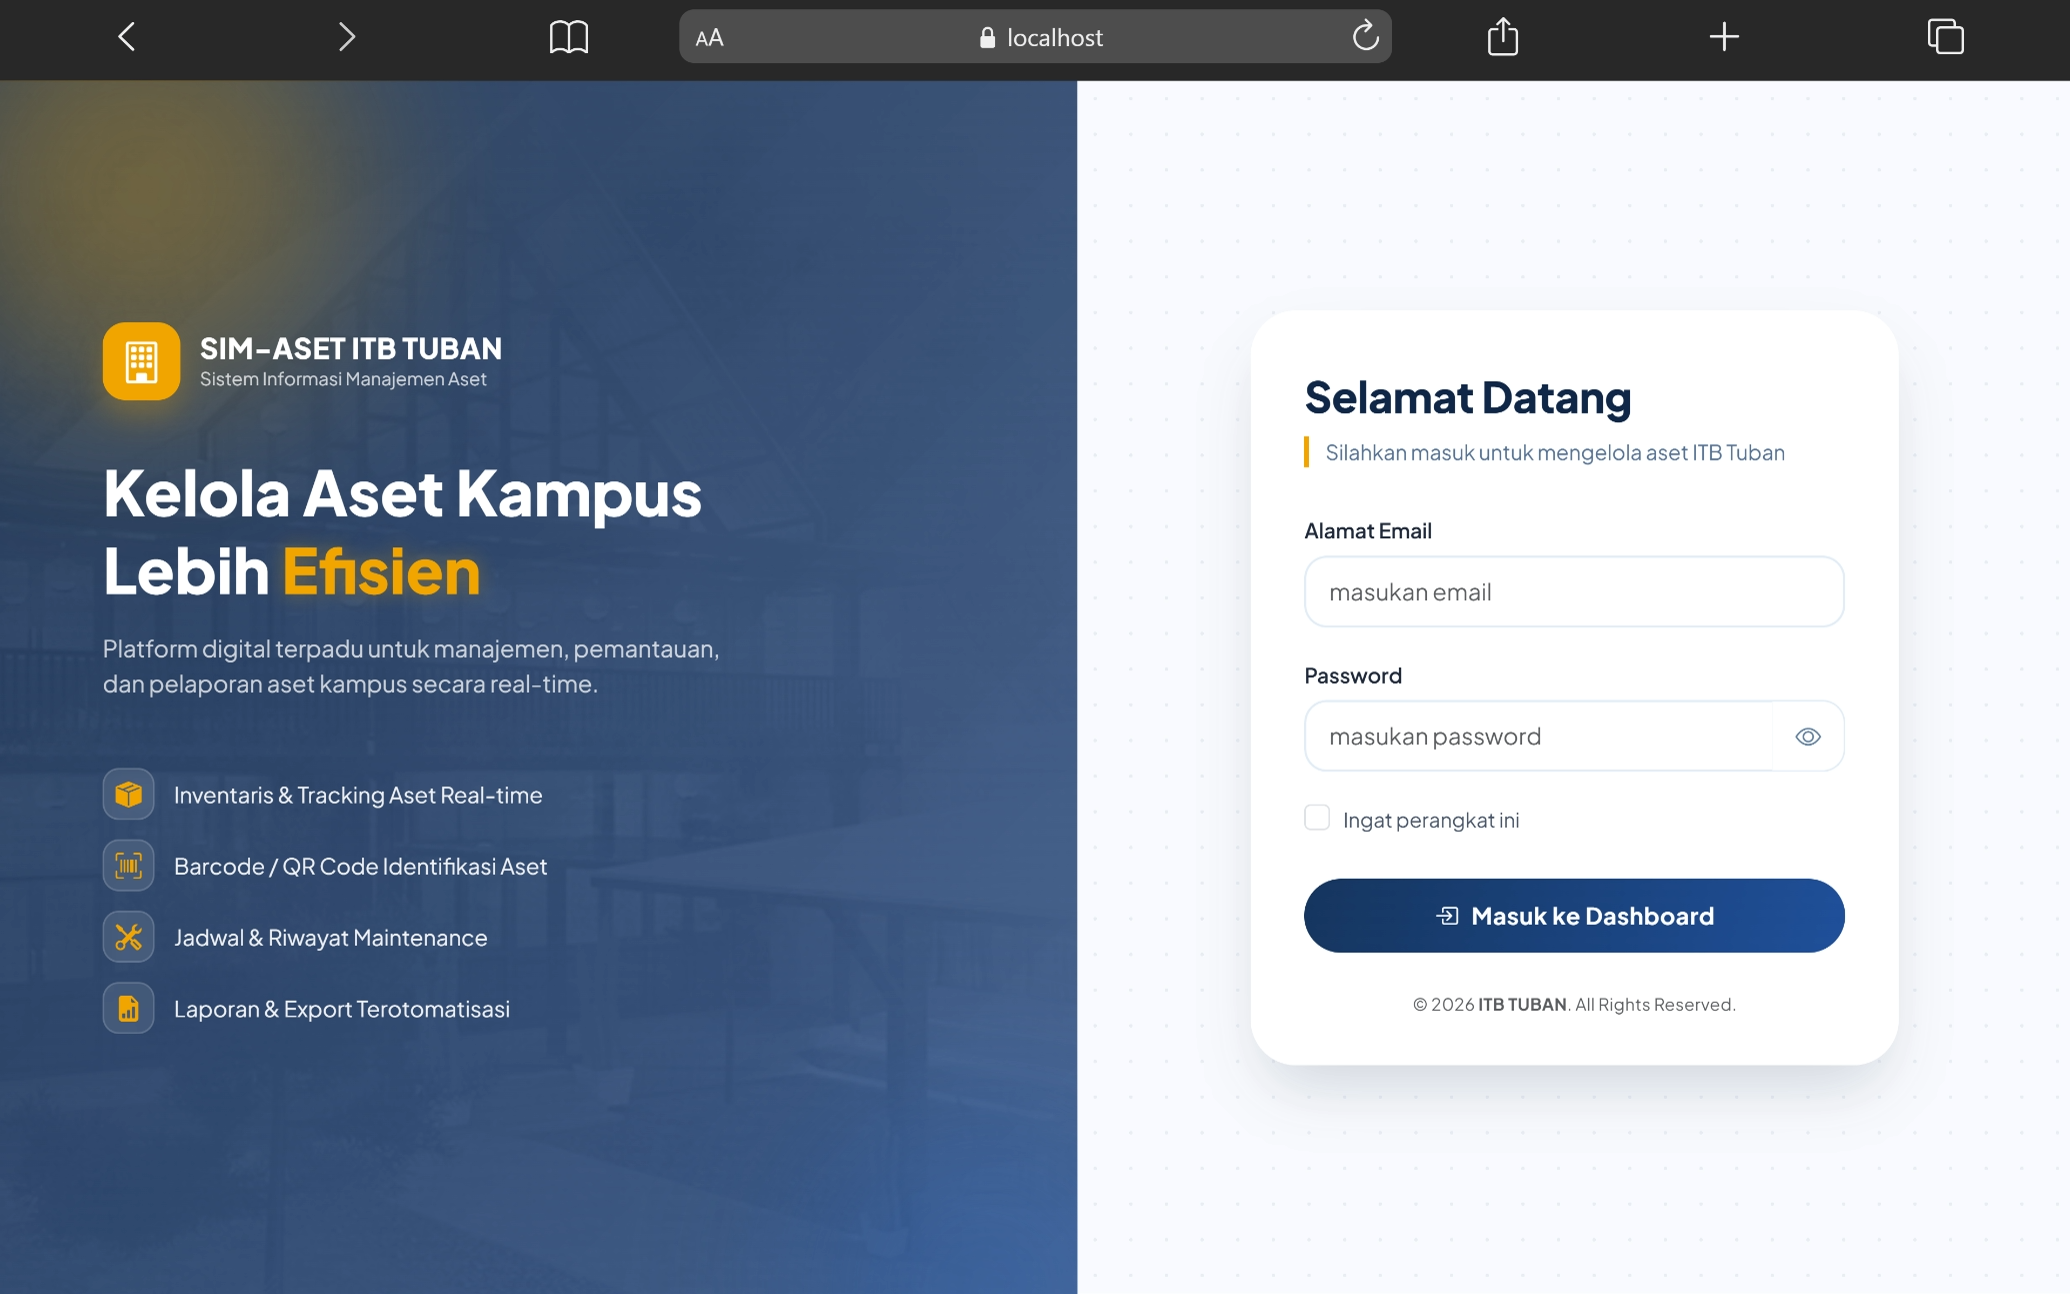
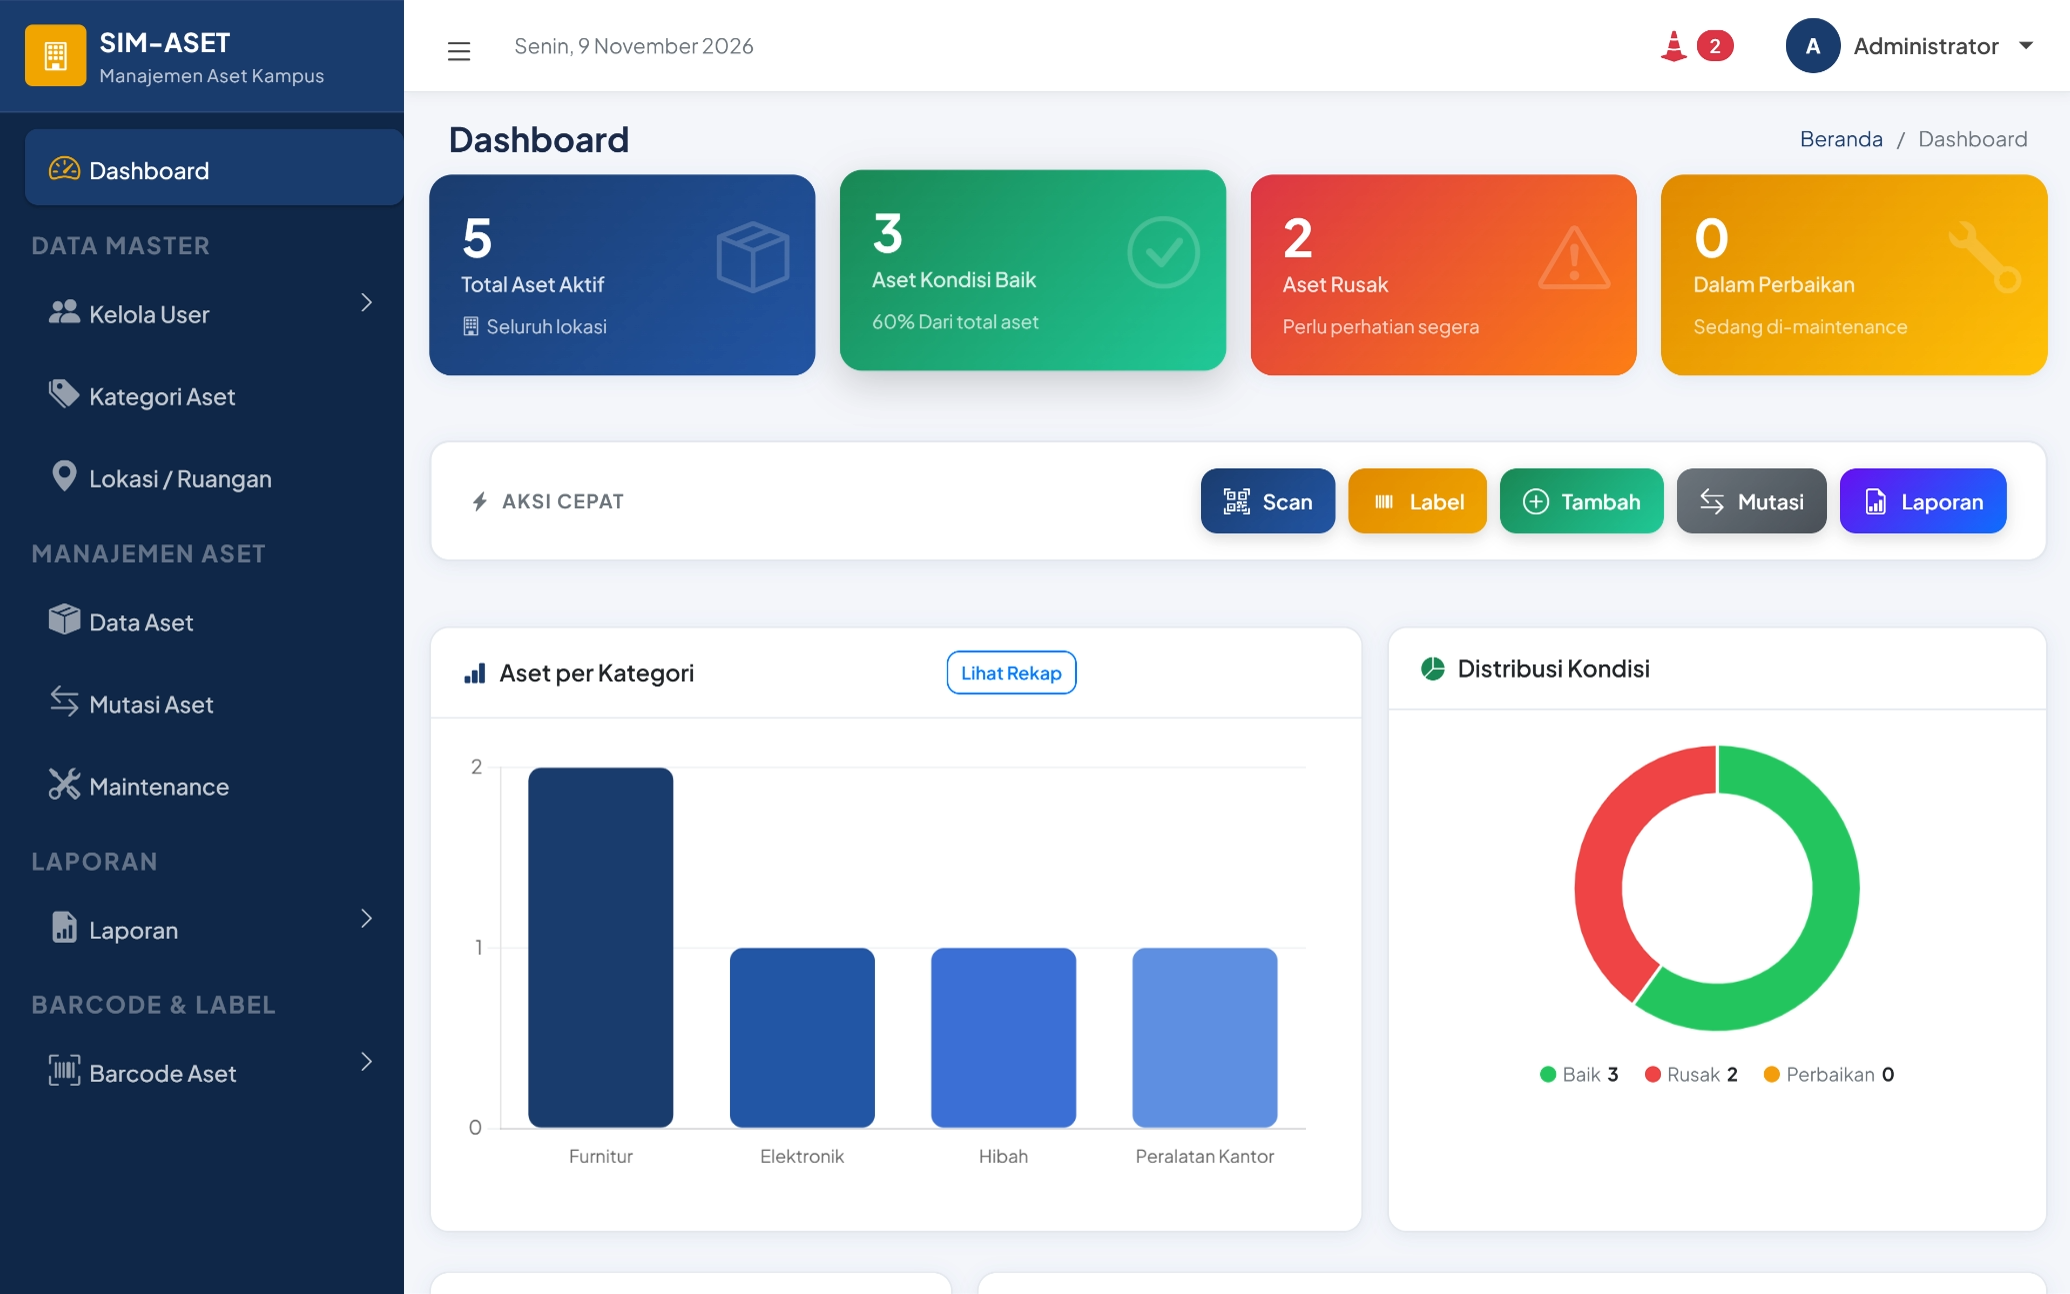
Add Nguri Pasar POS to portfolio

diff --git a/src/app.jsx b/src/app.jsx
@@ -9,7 +9,7 @@ import './styles.css';
 const MotionContext = createContext(true);
 const EASE = [0.22, 1, 0.36, 1];
 const categories = ['Semua', 'VFX', 'Film', '3D', 'Commercial', 'Full-Stack Development', 'Visual', 'Manipulation', 'Websites'];
-const featured = ['Portal PPID Desa Merkawang', 'Website Aset ITB Tuban'].map(key => archive.find(p => p.title === key)).filter(Boolean);
+const featured = ['Portal PPID Desa Merkawang', 'Website Aset ITB Tuban', 'Nguri Pasar – Kasir POS Warkop'].map(key => archive.find(p => p.title === key)).filter(Boolean);
 const experiences = [];
 const certificates = [];
 const awards = [];
@@ -256,7 +256,7 @@ function ProjectDialog({ project, onClose }) {
   const availableModes = [['layout', 'Layout'], ['solid', 'Solid'], ['material', 'Material'], ['lighting', 'Lighting'], ['final', 'Final render']].filter(([mode]) => activeShot?.[mode] && !(mode === 'solid' && activeShot.hideSolidMode));
   const effectiveMode = activeShot?.[renderMode] ? renderMode : availableModes[0]?.[0];
   const rendered = activeShot?.[effectiveMode] || activeShot?.image || project.image;
-  const sourceUrl = embedType === 'youtube' ? `https://www.youtube.com/watch?v=${embedMedia}` : embedType === 'drive' ? `https://drive.google.com/file/d/${embedMedia}/view` : project.type === 'render' ? rendered : project.media || project.image;
+  const sourceUrl = embedType === 'youtube' ? `https://www.youtube.com/watch?v=${embedMedia}` : embedType === 'drive' ? `https://drive.google.com/file/d/${embedMedia}/view` : project.type === 'render' ? rendered : project.type === 'website' ? project.media : project.media || project.image;
   const changeShot = next => { setMediaLoaded(false); setMediaFailed(false); setShot(next); };
   useEffect(() => {
     const previous = document.activeElement;
